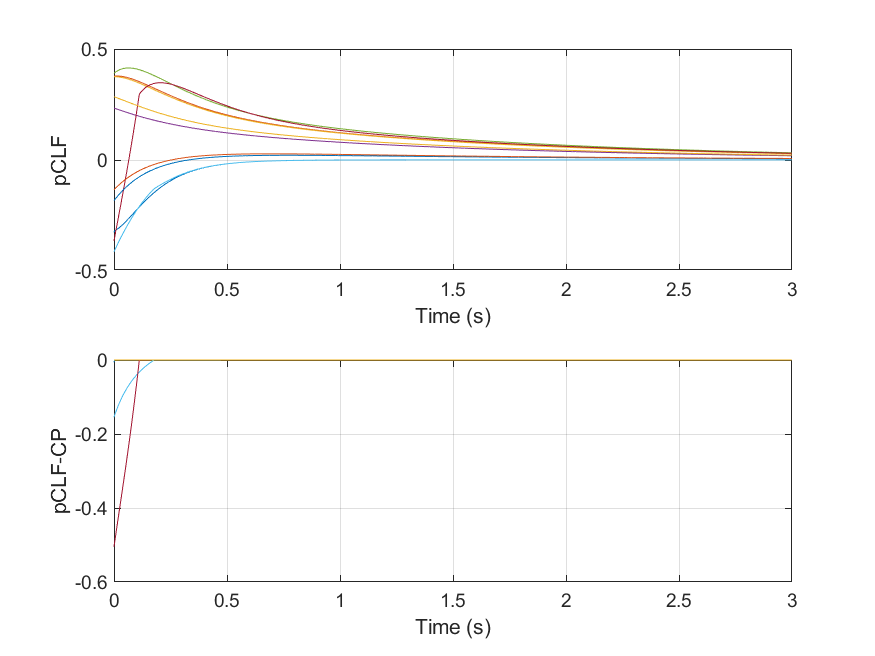
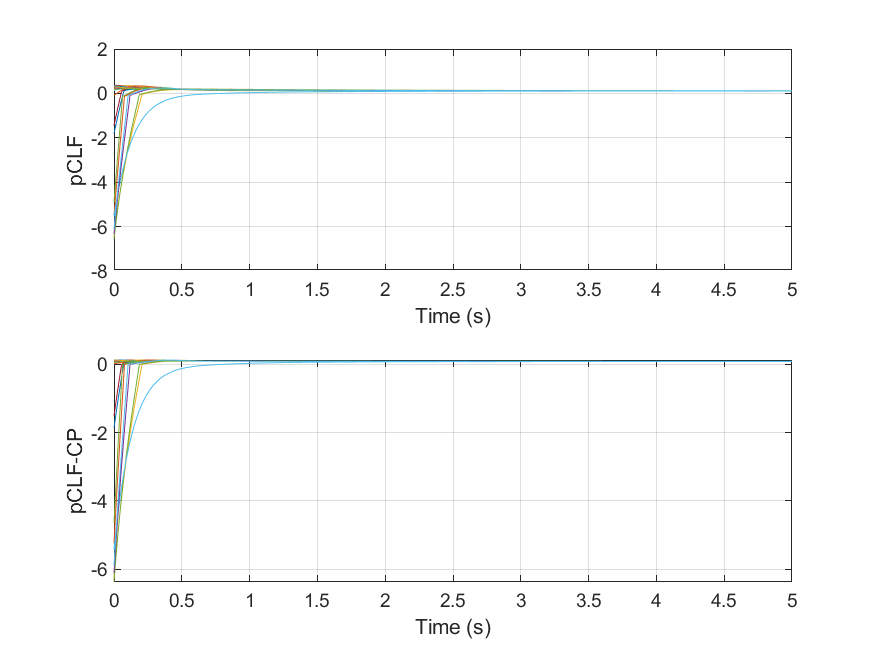
updated config; solve lyap to construct the CLF

diff --git a/demos/inverted_pendulum/run_inverted_pendulum_cpclf.m b/demos/inverted_pendulum/run_inverted_pendulum_cpclf.m
@@ -6,7 +6,7 @@ close all
 pickle = py.importlib.import_module('pickle');
 %fh = py.open('..\..\..\pysindy\control_affine_models\saved_models\model_inverted_pendulum_sindy', 'rb');
 fh = py.open('..\..\sindy_models\model_inverted_pendulum_sindy', 'rb');
-P = pickle.load(fh);    % pickle file loaded to Python variable
+P = pickle.load(fh); % pickle file loaded to Python variable
 fh.close();
 
 feature_names = string(P{'feature_names'}); % TODO: rename
@@ -42,15 +42,22 @@ params.g = 9.81; % [m/s^2]    acceleration of gravity
 params.b = 0.01; % [s*Nm/rad] friction coefficient
 
 % CLF
-params.clf.Q = diag([1, 0.01]);
-params.clf.R = 1;
-params.clf.rate = 2;
+%params.clf.Q = diag([1, 1e-2]);
+%params.clf.R = 1;
+params.clf.rate = 1;
+params.Kp = 6;
+params.Kd = 5;
 
 % QP solver
 %params.u_max = 50;
 %params.u_min = -params.u_max;
-params.weight.slack = 400;
-params.weight.input = 0.5;
+if use_cp
+    params.weight.slack = 400;
+    %params.weight.input = 10;
+else
+    params.weight.slack = 10;
+    %params.weight.input = 0.5;
+end
 
 % Learned model
 params.feature_names = feature_names;
@@ -65,13 +72,13 @@ controller_cpclf = @ip_learned.ctrlCpClfQp;
 ip_true = InvertedPendulum(params);
 dyn_true = @ip_true.dynamics;
 %controller_clf = @ip_true.ctrlClfQp;
-odeSolver = @ode45; %113
+odeSolver = @ode45;
 odeFun = dyn_true;
 
 %% Create a grid of states and sample initiall states from it
-resolution = 1000;
+resolution = 200;
 x_ = linspace(-pi/4, pi/4, resolution);
-y_ = linspace(-5, 5, resolution);
+y_ = linspace(-pi*2, pi*2, resolution);
 state = zeros(resolution, resolution, 2);
 state_norm_square = zeros(resolution, resolution);
 V_ = zeros(resolution, resolution);
@@ -86,14 +93,24 @@ clf_level = min([V_(1,:), V_(end,:), V_(:,1)', V_(:,end)']);
 x0 = [];
 for i = 1:resolution
     for j = 1:resolution
-        if V_(i,j) <= clf_level && V_(i,j) >= clf_level - 0.001
+        if V_(i,j) <= clf_level && V_(i,j) >= clf_level - 0.01 %&& abs(y_(j)) < 1.0
             x0 = [x0; [x_(i), y_(j)]];
         end
     end
 end
 
+figure;
+[X, Y] = meshgrid(x_, y_);
+contourf(X, Y, V_', "ShowText", true); hold on
+%colormap(summer)
+colorbar
+marker_size = 10;
+scatter(x0(:,1), x0(:,2), marker_size, "filled", "MarkerFaceColor", [1, 0, 0]);
+xlabel("theta (rad)");
+ylabel("theta dot (rad/s)");
+
 % Sample around the level set ip_learned.clf == clf_level as x0 
-N = 10; % number of paths
+N = 20; % number of paths
 N = min(N, size(x0, 1));
 x0 = x0(randperm(length(x0)), :); % random shuffling
 x0 = x0(1:N,:);
@@ -152,6 +169,7 @@ for n = 1:N
         end
         slack_hist(n, k) = slack;
         V_hist(n, k) = V;
+        %V_hist(n, k) = x' * ip_learned.P_lqr * x;
 
         p_hist(n, k) = ip_learned.dclf(x) * (ip_true.f(x) + ip_true.g(x) * u) + params.clf.rate * ip_learned.clf(x);
         p_cp_hist(n, k) = ip_learned.dclf(x) * (ip_learned.f(x) + ip_learned.g(x) * u) + params.clf.rate * ip_learned.clf(x)...
@@ -163,7 +181,7 @@ for n = 1:N
         [ts_temp, xs_temp] = odeSolver(@(t, s) odeFun(t, s, u), [t t+dt], x);
         x_hist(n, k+1, :) = xs_temp(end, :);
         x_norm_hist(n, k+1) = norm(squeeze(x_hist(n, k+1, :)));
-
+        %x_norm_hist(n, k) = norm(x);
     end
 end
 
@@ -183,6 +201,20 @@ if use_cp
     saveas(gcf, "plots/cpclf_inverted_pendulum_states.png");
 else
     saveas(gcf, "plots/clf_inverted_pendulum_states.png");
+end
+
+figure;
+[X, Y] = meshgrid(x_, y_);
+contourf(X, Y, V_',"ShowText",true); hold on
+for n = 1:N
+    plot(squeeze(x_hist(n,:,1)), squeeze(x_hist(n,:,2)), "LineWidth", 1.5); hold on
+end
+xlabel("theta (rad)");
+ylabel("theta dot (rad/s)");
+if use_cp
+    saveas(gcf, "plots/cpclf_inverted_pendulum_2d.png");
+else
+    saveas(gcf, "plots/clf_inverted_pendulum_2d.png");
 end
 
 figure;
@@ -215,8 +247,9 @@ end
 
 figure;
 plot(tt, x_norm_hist); hold on
-plot(tt(1:end-1), sqrt(M) * exp(-params.clf.rate/2 * tt(1:end-1)), 'r--');
+%plot(tt(1:end-1), sqrt(M) * exp(-params.clf.rate/2 * tt(1:end-1)), 'r--');
 %plot(tt(1:end-1), sqrt(c2/c1) * x_norm_hist(:,1) * exp(-params.clf.rate/2 * tt(1:end-1)), 'g--');
+ylim([0, inf]);
 xlabel('Time (s)'); 
 ylabel('State norm: ||x||');
 grid on
